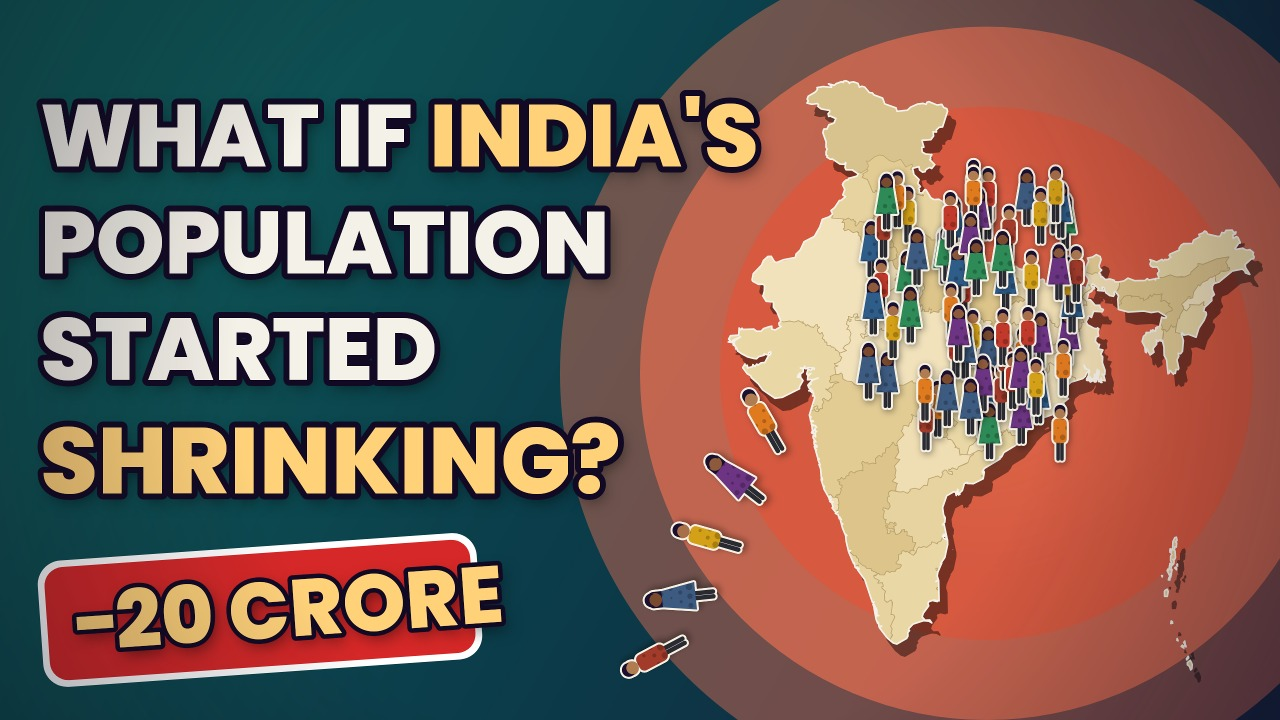
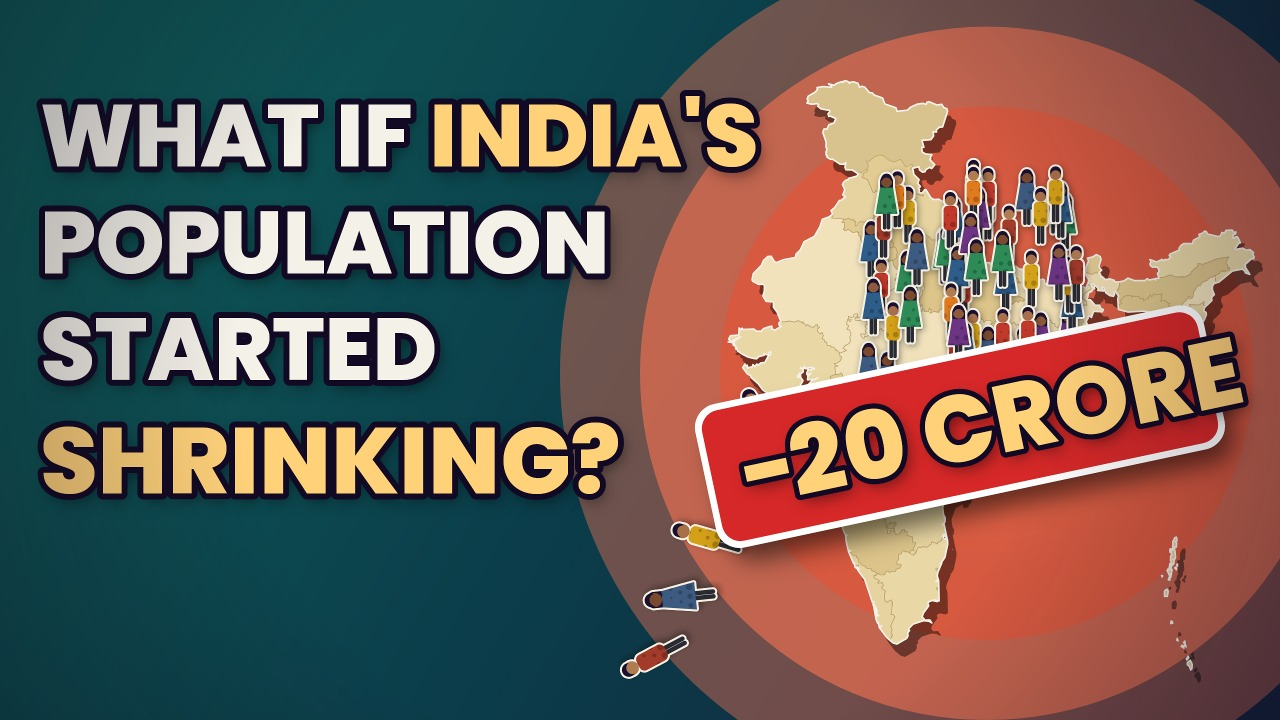
india-population-shrinking: thumbnail -20 crore sticker tilted over India
Claude-Session: https://claude.ai/code/session_01WCp4uQEYis8QAmCexfaYWR

Changed region(s): [[0.5312, 0.4278, 1.0, 0.7944], [0.0312, 0.7333, 0.4062, 0.9778]]

diff --git a/runs/india-population-shrinking/video/thumbs.py b/runs/india-population-shrinking/video/thumbs.py
@@ -52,11 +52,13 @@ def thumb(c):
         c.save(); c.rotate(-30 - i * 22, x, y - 40)
         cutout(c, lambda kk, x=x, y=y, i=i: figure(kk, x, y, 0.28, i=i + 3, female=i % 2 == 1), border=3, shadow=(3, 5))
         c.restore()
-    sx, sy, sw, shh = 70, 830, 640, 170
-    c.save(); c.rotate(-4, sx + sw / 2, sy + shh / 2)
+    sx, sy, sw, shh = cx - 420, cy - 20, 760, 200
+    c.save(); c.rotate(-12, sx + sw / 2, sy + shh / 2)
+    sh = paint("#000000", 0.55); sh.setMaskFilter(skia.MaskFilter.MakeBlur(skia.kNormal_BlurStyle, 18))
+    c.drawRRect(skia.RRect.MakeRectXY(skia.Rect(sx + 8, sy + 22, sx + sw + 18, sy + shh + 32), 36, 36), sh)
     c.drawRRect(skia.RRect.MakeRectXY(skia.Rect(sx - 10, sy - 10, sx + sw + 10, sy + shh + 10), 36, 36), paint("#FFFFFF"))
     c.drawRRect(skia.RRect.MakeRectXY(skia.Rect(sx, sy, sx + sw, sy + shh), 28, 28), paint("#D62828"))
-    outline_text(c, "−20 CRORE", sx + 40, sy + 128, 120, "gold", stroke=14)
+    outline_text(c, "−20 CRORE", sx + 45, sy + 152, 142, "gold", stroke=16)
     c.restore()
     # title, word for word, key word in gold
     words(c, [("WHAT IF ", "cream"), ("INDIA'S", "gold")], 60, 250, 132)
